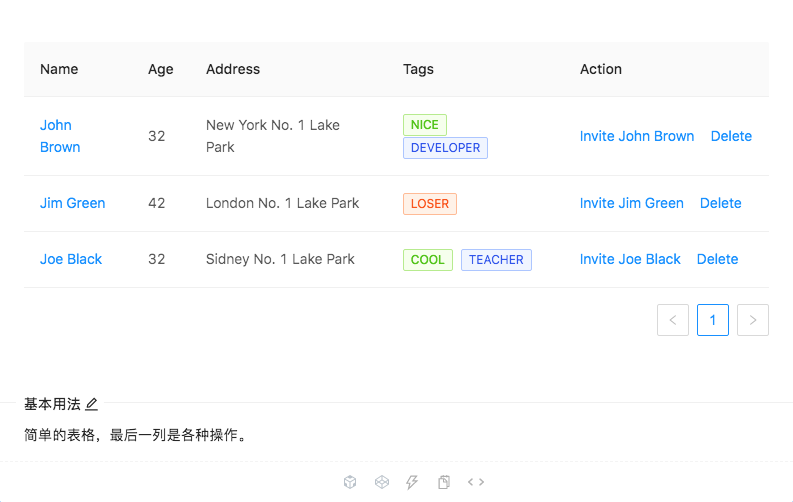
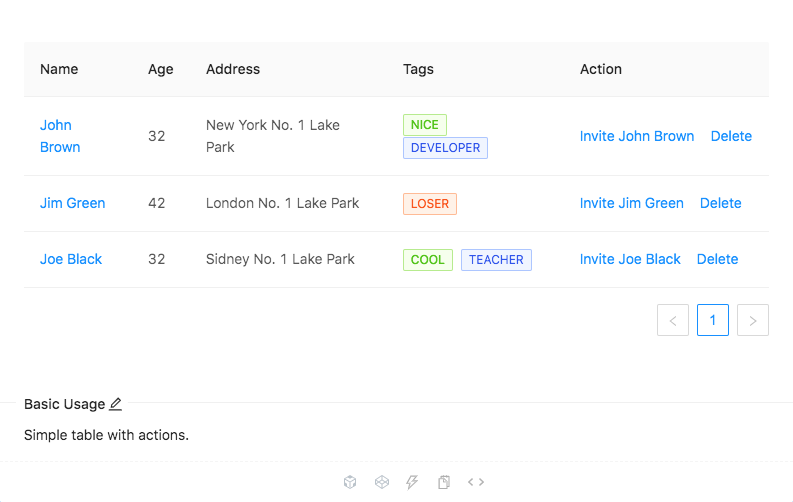
英文图片

Changed region(s): [[0.0303, 0.7769, 0.3026, 0.8964]]

diff --git a/src/service/fallback/antd-fallback.js b/src/service/fallback/antd-fallback.js
@@ -53,7 +53,7 @@ export default {
       },
       "__DESCRIPTION__": {
         "zh": "PrimaryDefaultDashedLink 按钮类型 按钮有四种类型：主按钮、次按钮、虚线按钮和链接按钮。主按钮在同一个操作区域最多出现一次。",
-        "en": "PrimaryDefaultDashedLink 按钮类型 按钮有四种类型：主按钮、次按钮、虚线按钮和链接按钮。主按钮在同一个操作区域最多出现一次。"
+        "en": "PrimaryDefaultDashedLink Type There are primary button, default button, dashed button and link button in antd."
       }
     },
     {
@@ -109,7 +109,7 @@ export default {
       },
       "__DESCRIPTION__": {
         "zh": "Open Modal 基本 第一个对话框。",
-        "en": "Open Modal 基本 第一个对话框。"
+        "en": "Open Modal Basic Basic modal."
       }
     },
     {
@@ -137,7 +137,7 @@ export default {
       },
       "__DESCRIPTION__": {
         "zh": "Name Age Address Tags Action John Brown 32 New York No. 1 Lake Park NICEDEVELOPER Invite John BrownDelete Jim Green 42 London No. 1 Lake Park LOSER Invite Jim GreenDelete Joe Black 32 Sidney No. 1 Lake Park COOLTEACHER Invite Joe BlackDelete 1 基本用法 简单的表格，最后一列是各种操作。",
-        "en": "Name Age Address Tags Action John Brown 32 New York No. 1 Lake Park NICEDEVELOPER Invite John BrownDelete Jim Green 42 London No. 1 Lake Park LOSER Invite Jim GreenDelete Joe Black 32 Sidney No. 1 Lake Park COOLTEACHER Invite Joe BlackDelete 1 基本用法 简单的表格，最后一列是各种操作。"
+        "en": "Name Age Address Tags Action John Brown 32 New York No. 1 Lake Park NICEDEVELOPER Invite John BrownDelete Jim Green 42 London No. 1 Lake Park LOSER Invite Jim GreenDelete Joe Black 32 Sidney No. 1 Lake Park COOLTEACHER Invite Joe BlackDelete 1 Basic Usage Simple table with actions."
       }
     },
     {
@@ -165,7 +165,7 @@ export default {
       },
       "__DESCRIPTION__": {
         "zh": "Remember me Forgot password Log inOr register now! 登录框 普通的登录框，可以容纳更多的元素。",
-        "en": "Remember me Forgot password Log inOr register now! 登录框 普通的登录框，可以容纳更多的元素。"
+        "en": "Remember me Forgot password Log inOr register now! Login Form Normal login form which can contain more elements."
       }
     },
     {
@@ -193,7 +193,7 @@ export default {
       },
       "__DESCRIPTION__": {
         "zh": "Log in 内联登录栏 内联登录栏，常用在顶部导航栏中。",
-        "en": "Log in 内联登录栏 内联登录栏，常用在顶部导航栏中。"
+        "en": "Log in Inline Login Form Inline login form is often used in navigation bar."
       }
     },
     {
@@ -221,7 +221,7 @@ export default {
       },
       "__DESCRIPTION__": {
         "zh": "Plain Text China Select Please select a country Select[multiple] Please select favourite colors InputNumber machines Switch Slider A B C D E F Radio.Group item 1 item 2 item 3 Radio.Button item 1 item 2 item 3 Checkbox.Group A B C D E F Rate Upload Click to upload longgggggggggggggggggggggggggggggggggg Dragger Click or drag file to this area to upload Support for a single or bulk upload. Submit 校验其他组件 以上演示没有出现的表单控件对应的校验演示。",
-        "en": "Plain Text China Select Please select a country Select[multiple] Please select favourite colors InputNumber machines Switch Slider A B C D E F Radio.Group item 1 item 2 item 3 Radio.Button item 1 item 2 item 3 Checkbox.Group A B C D E F Rate Upload Click to upload longgggggggggggggggggggggggggggggggggg Dragger Click or drag file to this area to upload Support for a single or bulk upload. Submit 校验其他组件 以上演示没有出现的表单控件对应的校验演示。"
+        "en": "Plain Text China Select Please select a country Select[multiple] Please select favourite colors InputNumber machines Switch Slider A B C D E F Radio.Group item 1 item 2 item 3 Radio.Button item 1 item 2 item 3 Checkbox.Group A B C D E F Rate Upload Click to upload longgggggggggggggggggggggggggggggggggg Dragger Click or drag file to this area to upload Support for a single or bulk upload. Submit Other Form Controls Demonstration of validation configuration for form controls which are not shown in the demos above."
       }
     },
     {
